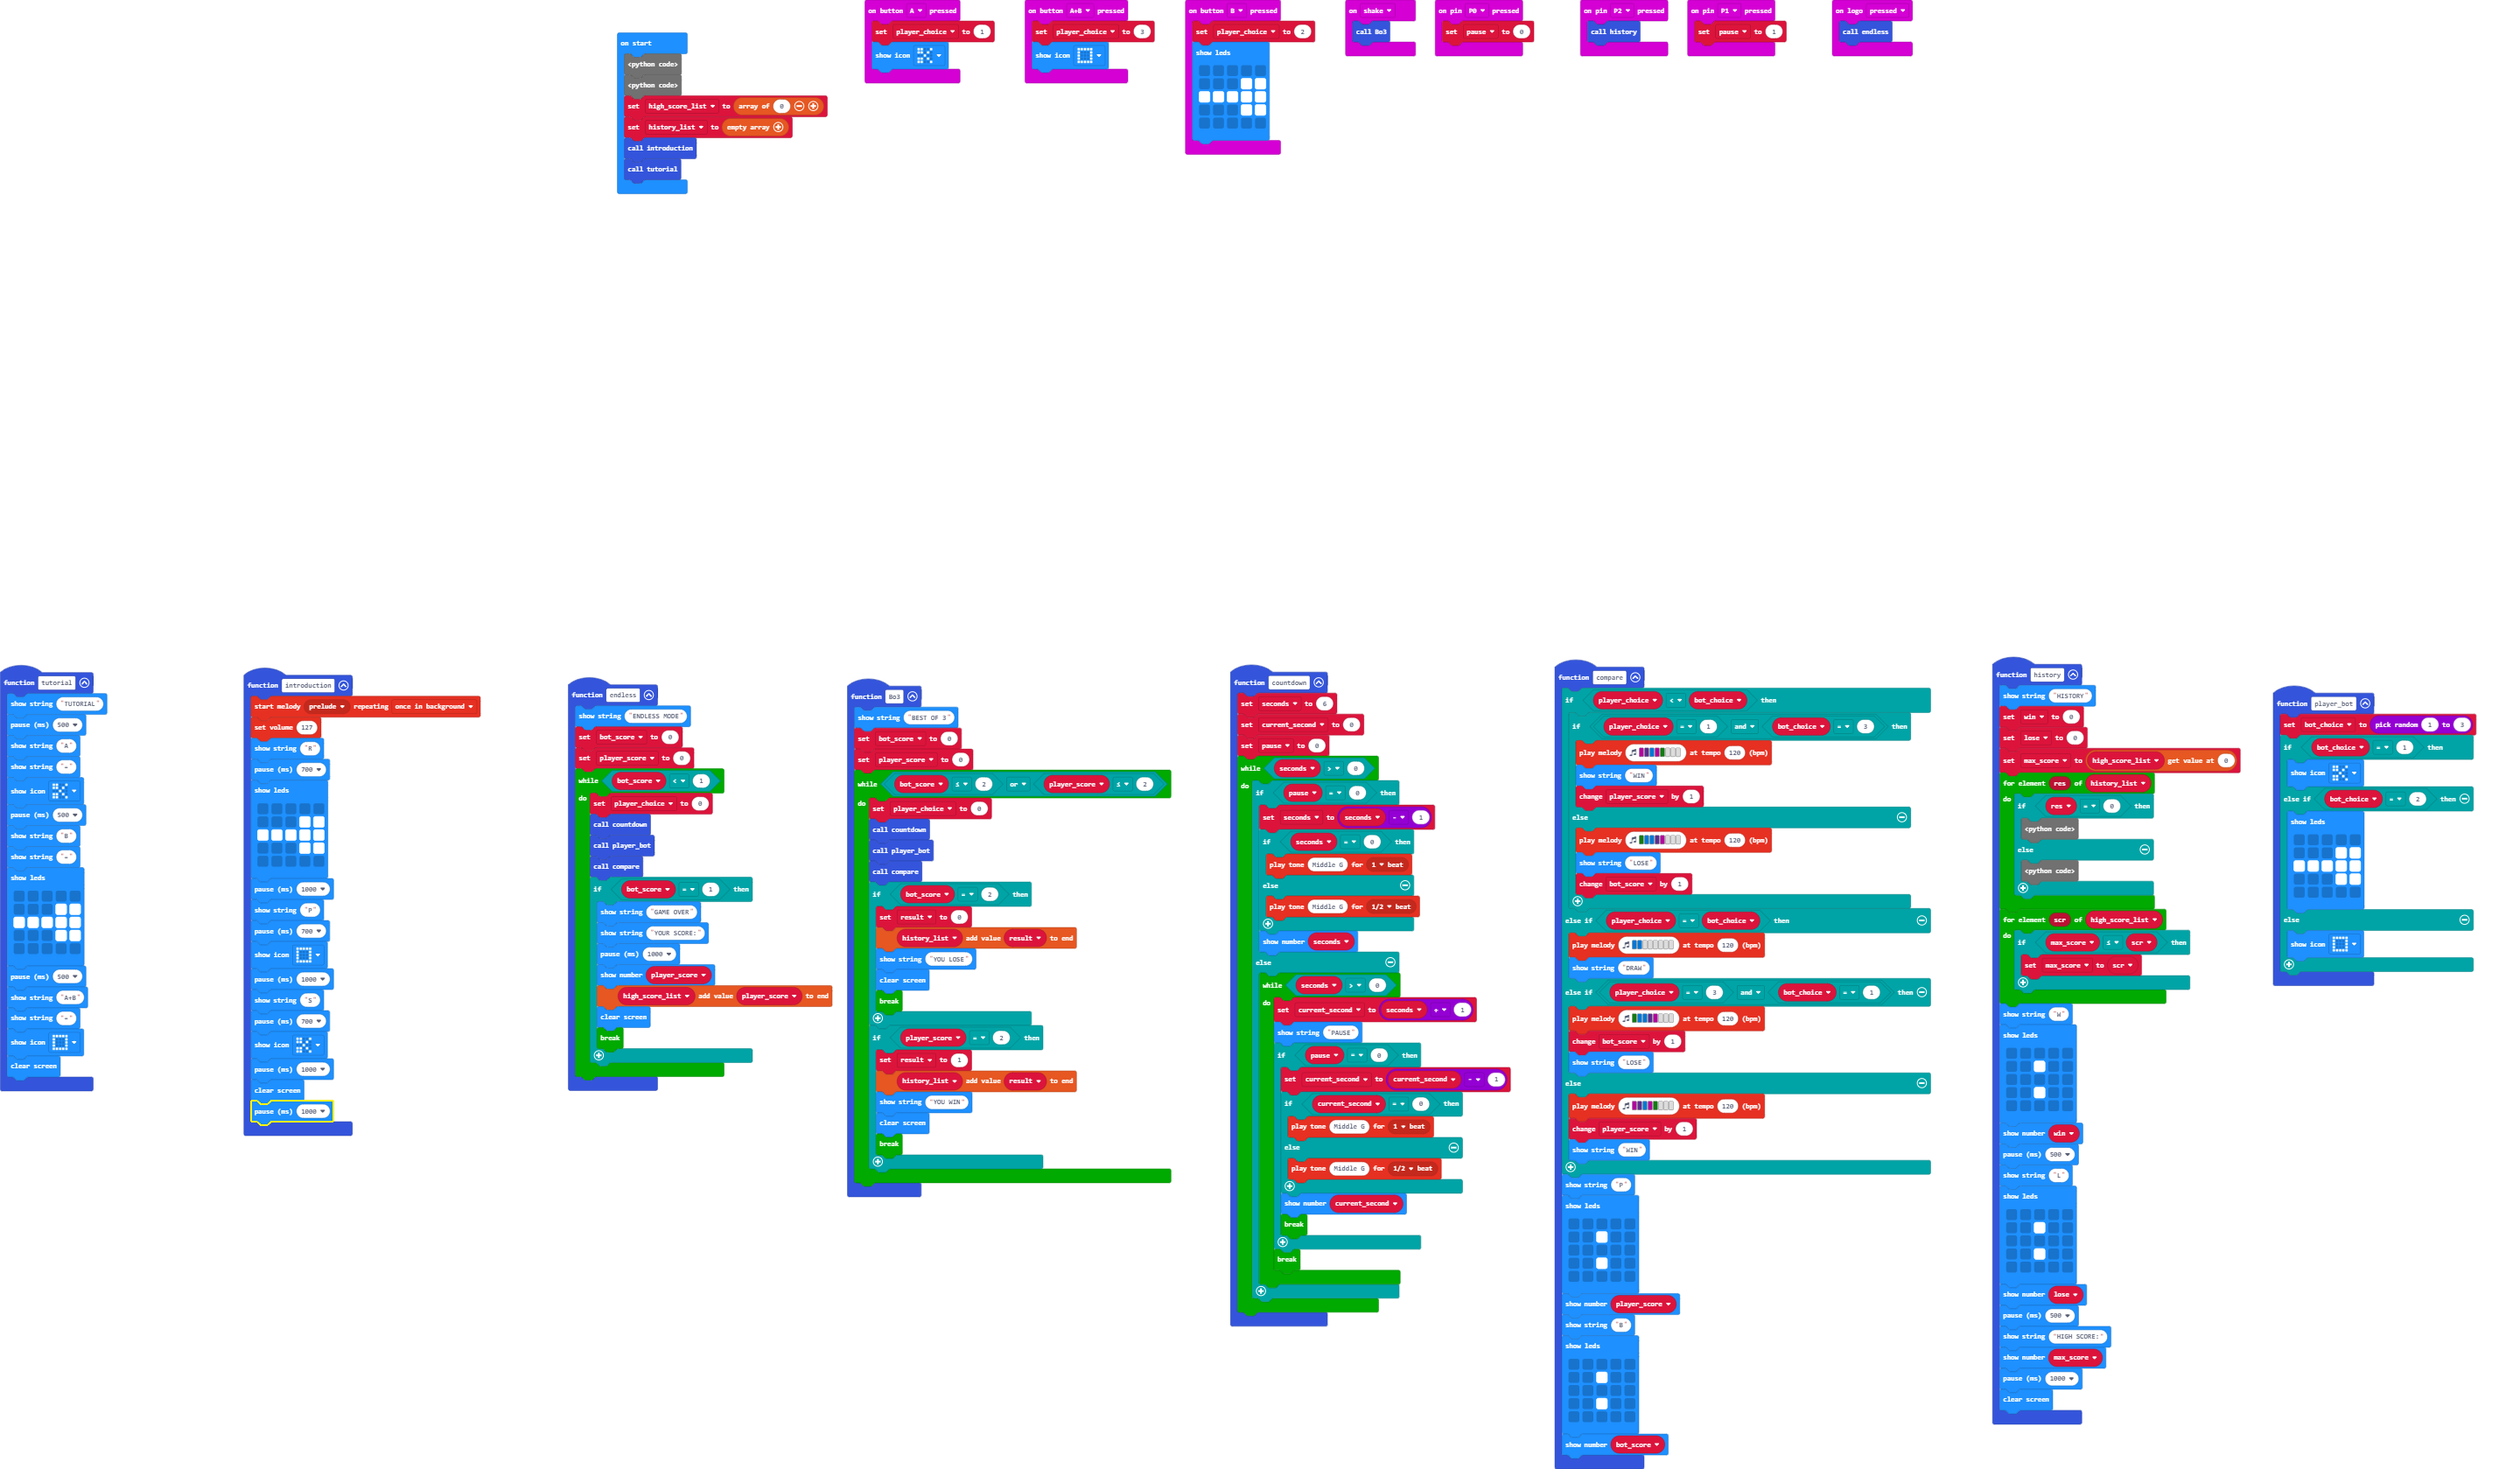
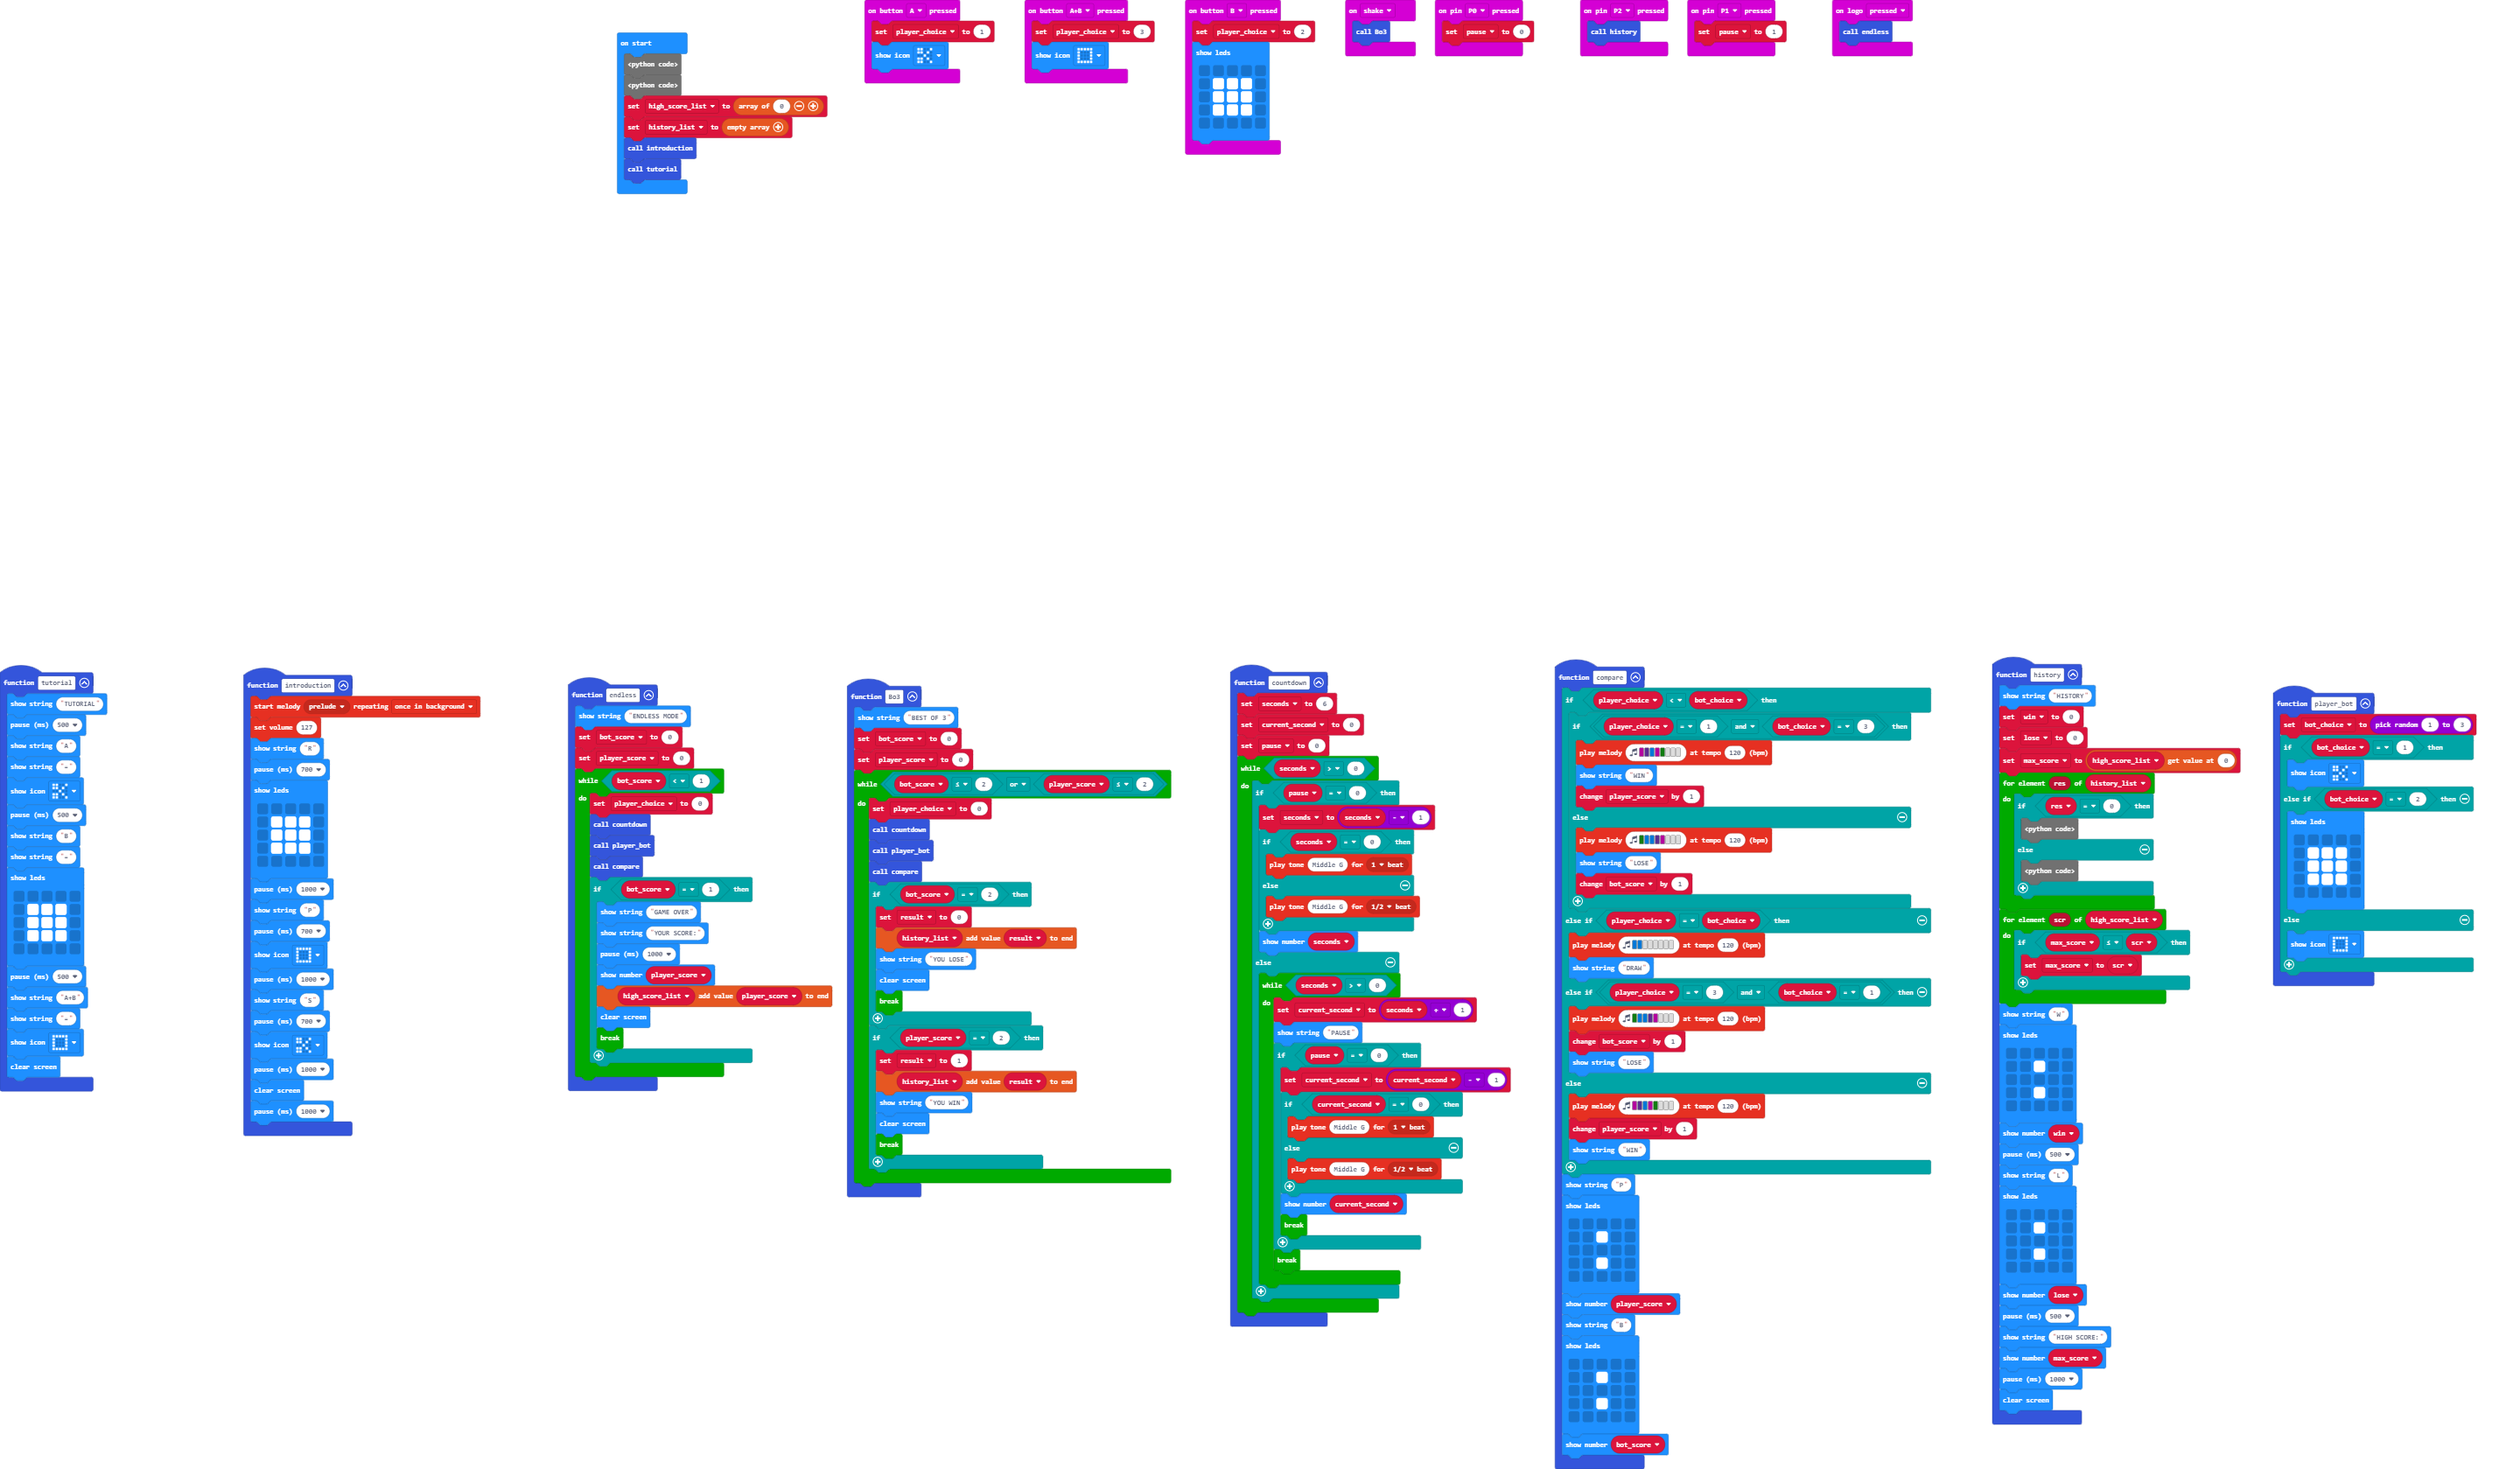
change rock image

diff --git a/main.ts b/main.ts
@@ -5,9 +5,9 @@ function player_bot () {
     } else if (bot_choice == 2) {
         basic.showLeds(`
             . . . . .
-            . . . # #
-            # # # # #
-            . . . # #
+            . # # # .
+            . # # # .
+            . # # # .
             . . . . .
             `)
     } else {
@@ -24,9 +24,9 @@ function introduction () {
     basic.pause(700)
     basic.showLeds(`
         . . . . .
-        . . . # #
-        # # # # #
-        . . . # #
+        . # # # .
+        . # # # .
+        . # # # .
         . . . . .
         `)
     basic.pause(1000)
@@ -133,9 +133,9 @@ function tutorial () {
     basic.showString("=")
     basic.showLeds(`
         . . . . .
-        . . . # #
-        # # # # #
-        . . . # #
+        . # # # .
+        . # # # .
+        . # # # .
         . . . . .
         `)
     basic.pause(500)
@@ -194,9 +194,9 @@ input.onButtonPressed(Button.B, function () {
     player_choice = 2
     basic.showLeds(`
         . . . . .
-        . . . # #
-        # # # # #
-        . . . # #
+        . # # # .
+        . # # # .
+        . # # # .
         . . . . .
         `)
 })
